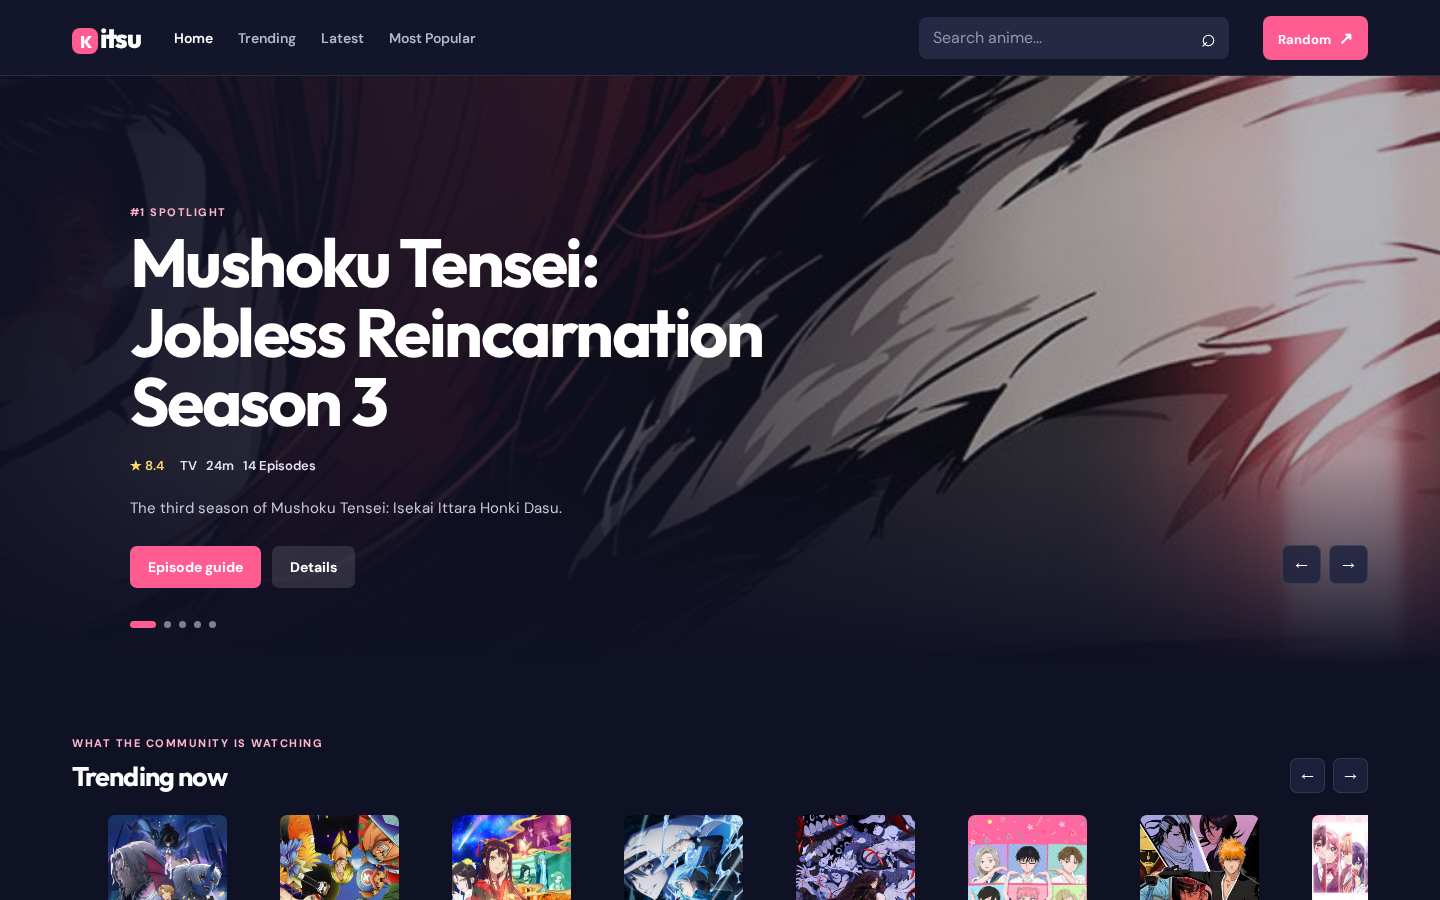
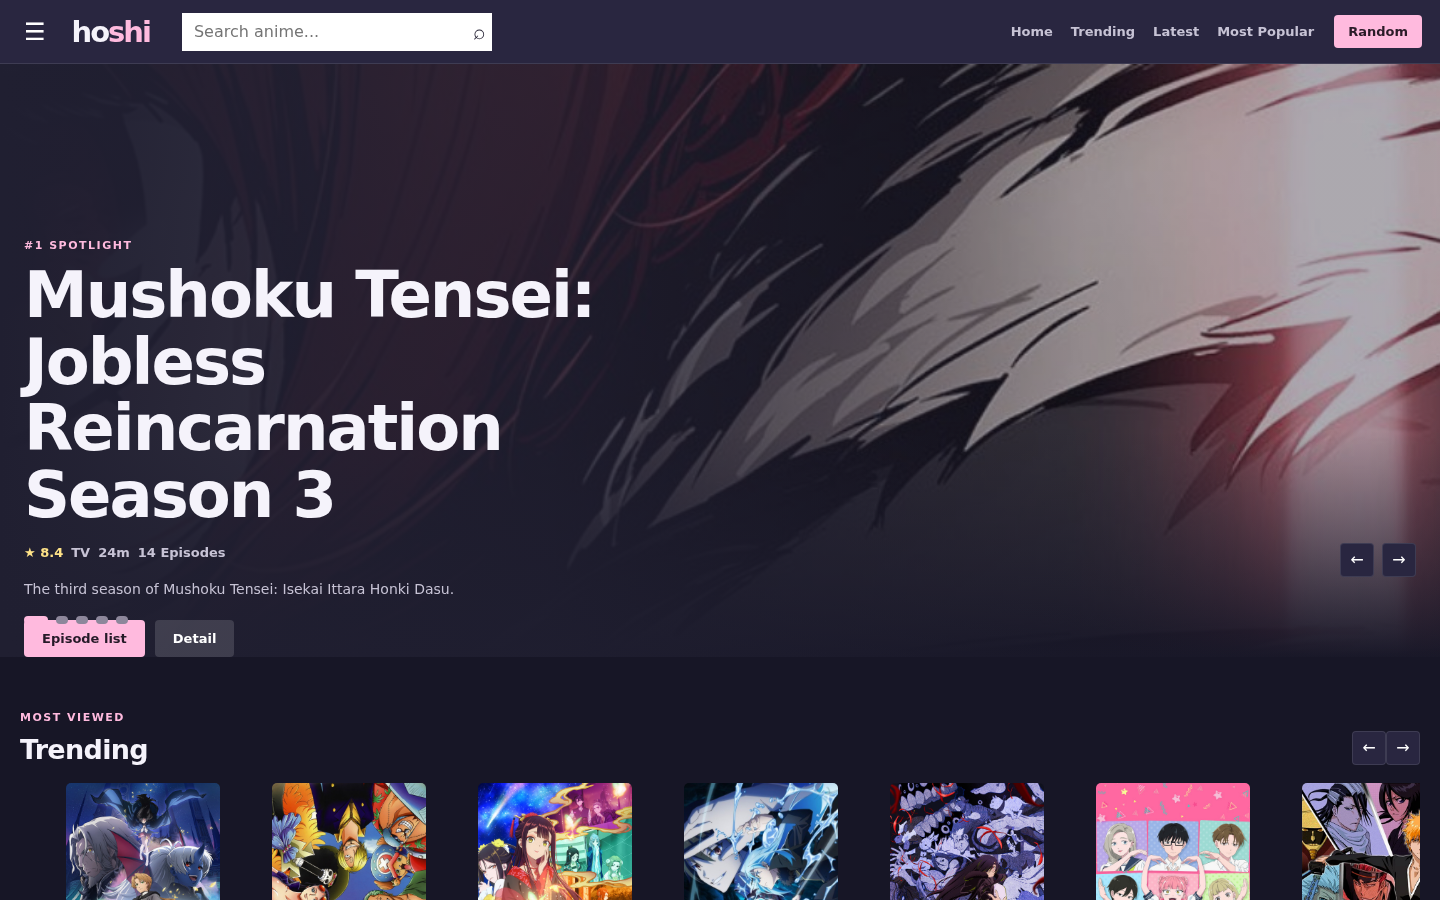
Add full UI project (home, details, episodes)

diff --git a/index.html b/index.html
@@ -5,7 +5,7 @@
   <meta name="viewport" content="width=device-width,initial-scale=1">
   <meta name="description" content="AniList-powered anime catalogue and episode directory.">
   <title>Hoshi - Anime catalogue</title>
-  <link rel="stylesheet" href="/style.css">
+  <link rel="stylesheet" href="/assets/css/style.css">
 </head>
 <body>
   <header class="topbar">

diff --git a/README.md b/README.md
@@ -1,0 +1,77 @@
+# Hoshi Anime Catalogue
+
+Hoshi is a static, AniList-powered anime catalogue with three client-rendered routes:
+
+- `/home`: spotlight, trending, latest, popular, and Top 10 sections
+- `/details/{id}`: anime metadata, studio, characters, and Japanese voice actors
+- `/watch/{id}`: editable season and episode directory
+
+It is a catalogue and episode-listing interface only. It does not include a video player, iframe, embedded media, or streaming source code.
+
+## Project Structure
+
+```text
+.
+├── assets/
+│   ├── css/
+│   │   └── style.css         # All site styling
+│   ├── images/               # Put local optional images here
+│   └── js/
+│       └── app.js            # AniList API, routes, search, and UI rendering
+├── docker-compose.alloy.yaml # Docker development server
+├── index.html                # Shared application shell
+├── server.py                 # Static server with route fallback
+└── README.md
+```
+
+## Run
+
+```bash
+docker compose -f docker-compose.alloy.yaml up -d
+```
+
+Open `http://localhost:3000/home`.
+
+The `server.py` fallback makes `/home`, `/details/{id}`, and `/watch/{id}` resolve to the shared HTML shell. JavaScript then renders the matching page.
+
+## Add Episode Links
+
+In `assets/js/app.js`, edit `CATALOG_OVERRIDES` near the top of the file. AniList IDs are used as keys.
+
+```js
+window.CATALOG_OVERRIDES = {
+  16498: {
+    episodeLinks: {
+      1: "https://your-domain.example/episode-1",
+      2: "https://your-domain.example/episode-2"
+    },
+    seasonSize: 24
+  }
+};
+```
+
+Any episode without an override remains a simple `href="#"` link. This project never loads or embeds the URL.
+
+## Override Anime Metadata
+
+The same object can override a title or description while retaining AniList data for the rest of the page.
+
+```js
+window.CATALOG_OVERRIDES = {
+  16498: {
+    title: "My custom Attack on Titan title",
+    description: "My custom catalogue description.",
+    episodes: 25
+  }
+};
+```
+
+## AniList Data
+
+`assets/js/app.js` calls the public AniList GraphQL endpoint for:
+
+- homepage collections
+- title, poster, banner, rating, genres, studio, and episode counts
+- character names, portraits, and Japanese voice actors
+
+No AniList access key is required.
